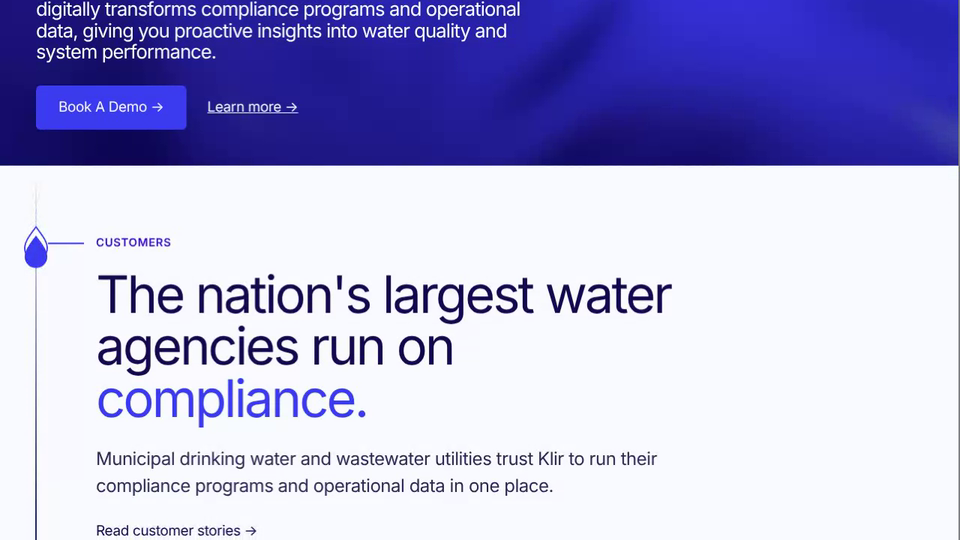
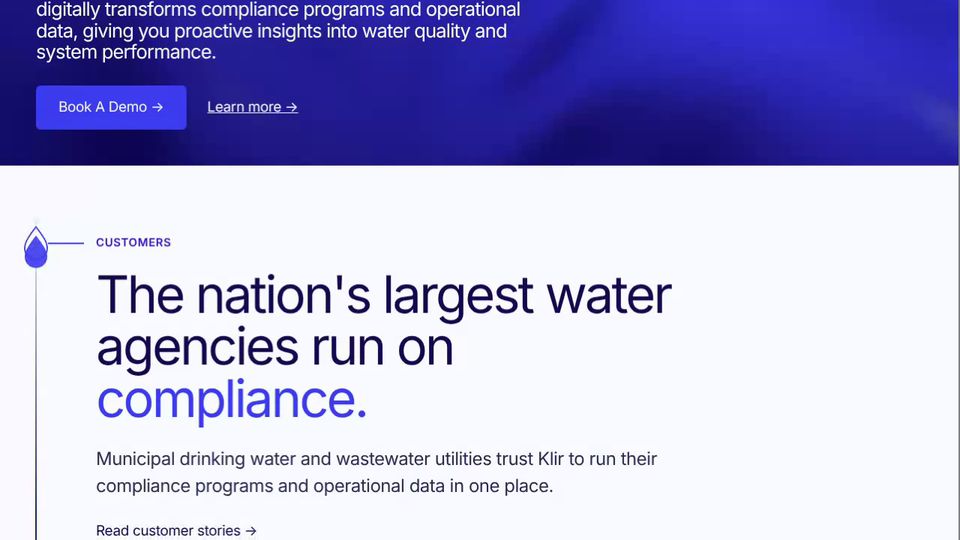
Klir Landing Page: Clio-style blue footer CTA, line fades at marked points, drop limited to the line
Claude-Session: https://claude.ai/code/session_01AHeBdxxJMjuAF9w67sWwW5

diff --git a/klir-wayfinding/index.html b/klir-wayfinding/index.html
@@ -91,6 +91,13 @@ ul.ticks svg{flex:none;width:22px;height:22px;stroke:var(--indigo);fill:none;str
 .ft u{text-decoration:none;font-size:17px}
 @media(max-width:820px){.cust{grid-template-columns:1fr 1fr}.tile.feat{grid-column:1/3;grid-row:auto;min-height:320px}}
 header.site .links span{display:inline-flex;align-items:center;gap:7px}.ar{transform:rotate(90deg)}
+footer{background:var(--blue);color:#fff;text-align:center;padding:150px 24px;display:flex;flex-direction:column;align-items:center}
+footer h2{color:#fff;font-weight:300;max-width:13em;font-size:clamp(38px,5.4vw,76px)}
+footer p{font-size:clamp(18px,1.8vw,22px);letter-spacing:-.02em;max-width:30em;margin-top:28px}
+.fcta{display:flex;gap:28px;align-items:center;margin-top:36px;flex-wrap:wrap;justify-content:center}
+.fbtn{background:#fff;color:var(--navy);text-decoration:none;font-size:19px;letter-spacing:-.02em;padding:17px 32px;border-radius:6px}
+.fbtn:hover{background:var(--lav)}
+.flink{color:#fff;font-size:19px;letter-spacing:-.02em;text-decoration:underline;text-underline-offset:5px}
 </style>
 </head>
 <body>
@@ -158,35 +165,31 @@ header.site .links span{display:inline-flex;align-items:center;gap:7px}.ar{trans
   <div class="wide"><div class="goo a43"><img src="img/waves.jpg" alt="Deep blue waves with soft light"></div><div class="cap"><b>05</b>Manage industrial customers and enforce compliance</div></div>
 </section>
 
-<section id="demo">
-  <div class="eyebrow node">Get started</div>
-  <h2>One Operational Hub. <em>All Teams.</em></h2>
-  <p class="lead">See how Klir brings compliance programs and operational data together for your utility.</p>
-  <div class="cta"><a class="btn" href="#demo">Book A Demo</a></div>
-</section>
 </main>
 </div>
+<footer id="demo"><h2>See what Klir can do with every team already connected</h2><p>Bring compliance programs and operational data together in one hub built for water.</p><div class="fcta"><a class="fbtn" href="#demo">Book A Demo</a><a class="flink" href="#demo">Learn more →</a></div></footer>
 
 <script>
 const ticks=["Standardize and centralize your data","Capture information in bench sheets","Evaluate against limits","Receive alerts and notifications","Anticipate necessary changes early","Manage NPDES permit adherence","Generate accurate NetDMR reports in clicks","Manage industrial customers and enforce compliance"];
 document.getElementById('ticks').innerHTML=ticks.map(t=>`<li><svg viewBox="0 0 24 24"><path d="M4 12.5l5 5L20 6"/></svg>${t}</li>`).join('');
 const $=id=>document.getElementById(id),svg=$('path'),main=document.querySelector('main'),NS='http://www.w3.org/2000/svg';
-let H=0,X=48,HB=0,nodes=[];
+let H=0,X=48,HB=0,LT=0,nodes=[];
 function layout(){
   const m=wrap.getBoundingClientRect();H=wrap.offsetHeight;HB=document.querySelector('.hero').offsetHeight;
   X=parseFloat(getComputedStyle(document.documentElement).getPropertyValue('--gx'))||48;
   svg.setAttribute('height',H);
-  $('solid').setAttribute('x1',X);$('solid').setAttribute('x2',X);$('solid').setAttribute('y1',HB);$('solid').setAttribute('y2',H);const fg=$('fade');fg.setAttribute('y1',HB);fg.setAttribute('y2',H);
+  $('solid').setAttribute('x1',X);$('solid').setAttribute('x2',X);
   $('cwR').setAttribute('height',HB);$('cbR').setAttribute('y',HB);$('cbR').setAttribute('height',H-HB);
   nodes=[...document.querySelectorAll('.eyebrow.node')].map(e=>{const r=e.getBoundingClientRect();return{y:r.top-m.top+r.height/2}});
   $('nodes').innerHTML=nodes.map((n,i)=>`<use href="#drop" transform="translate(${X} ${n.y+1}) scale(1.5)" fill="#fff" stroke="#3b3bef" stroke-width="1.2"/>`).join('');
+  LT=Math.max(HB,(nodes[0]?nodes[0].y:HB)-60);$('solid').setAttribute('y1',LT);$('solid').setAttribute('y2',H);const fg=$('fade');fg.setAttribute('y1',LT);fg.setAttribute('y2',H);
   tick();
 }
 function tick(){
-  const top=wrap.getBoundingClientRect().top,y=Math.max(HB*.35,Math.min(H-30,innerHeight*.5-top));
+  const top=wrap.getBoundingClientRect().top,y=Math.max(LT,Math.min(H,innerHeight*.5-top));
   
   const t=`translate(${X} ${y}) scale(1.5)`;$('dw').setAttribute('transform',t);$('db').setAttribute('transform',t);
-  $('head').setAttribute('opacity',Math.min(1,Math.max(0,(-top)/160)));
+  $('head').setAttribute('opacity',Math.max(0,Math.min(1,(y-LT)/80,(H-y)/80)));
 }
 const wrap=$('wrap');
 addEventListener('scroll',tick,{passive:true});addEventListener('resize',layout);
